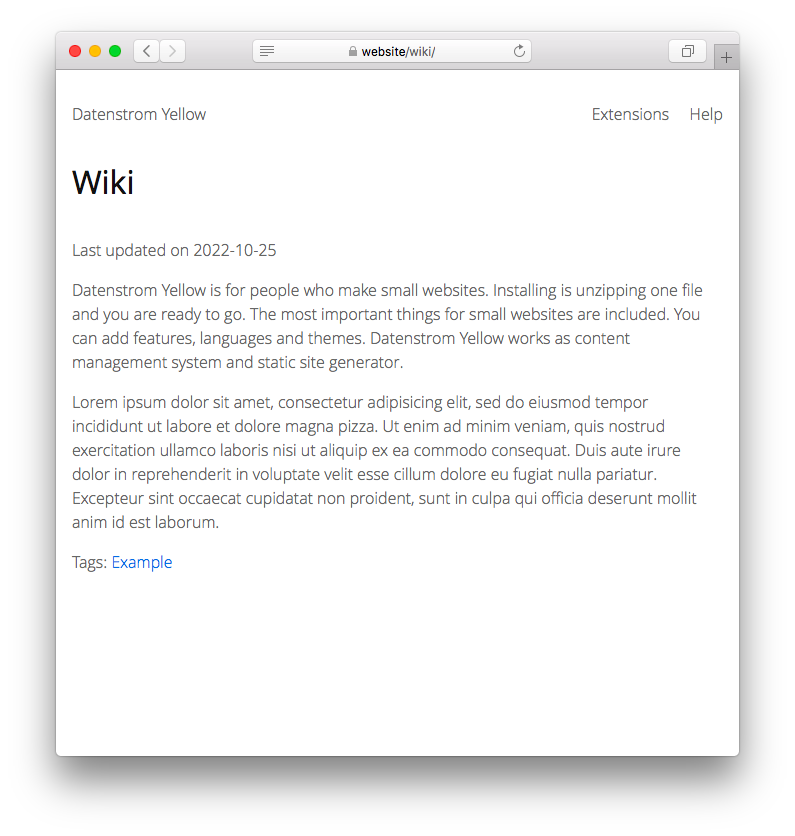
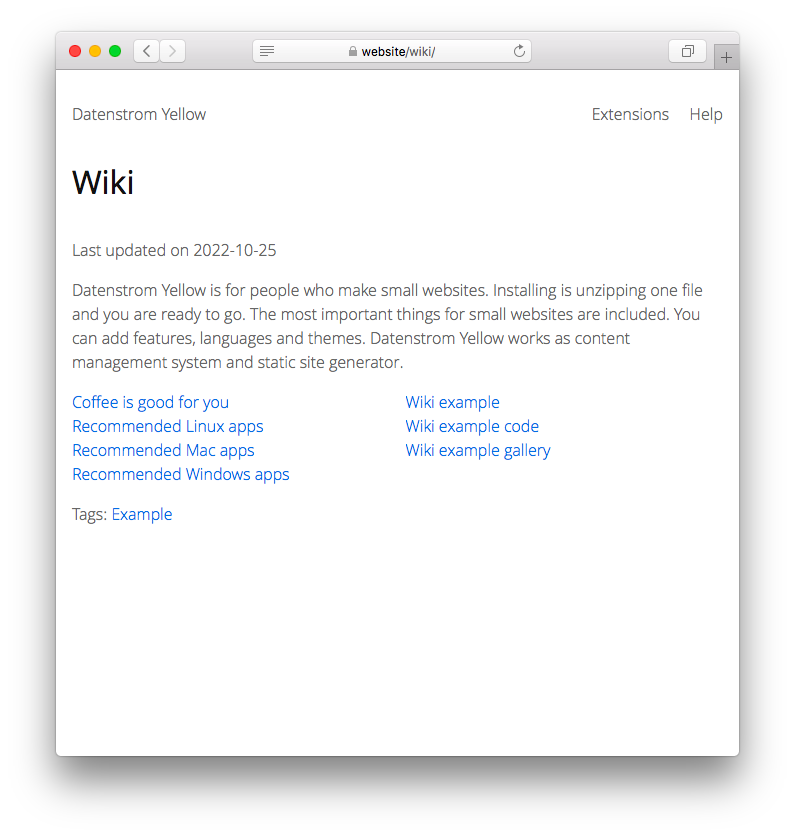
Updated wiki extension, documentation

Changed region(s): [[0.0906, 0.4665, 0.8755, 0.6842]]

diff --git a/wiki.php b/wiki.php
@@ -10,7 +10,7 @@ class YellowWiki {
         $this->yellow = $yellow;
         $this->yellow->system->setDefault("wikiStartLocation", "auto");
         $this->yellow->system->setDefault("wikiNewLocation", "@title");
-        $this->yellow->system->setDefault("wikiShortcutEntries", "5");
+        $this->yellow->system->setDefault("wikiShortcutEntries", "0");
         $this->yellow->system->setDefault("wikiPaginationLimit", "30");
     }
 

diff --git a/README-de.md b/README-de.md
@@ -16,7 +16,7 @@ Das Wiki ist auf deiner Webseite vorhanden als `http://website/wiki/`. Um eine n
 
 ## Wie man ein Wiki bearbeitet
 
-Falls du Wikiseiten im [Webbrowser](https://github.com/annaesvensson/yellow-edit/tree/main/README-de.md) bearbeiten möchtest, kannst du das auf deiner Webseite machen unter `http://website/edit/wiki/`. Falls du Wikiseiten auf deinem [Computer](https://github.com/annaesvensson/yellow-core/tree/main/README-de.md) bearbeiten möchtest, schau dir das `content/2-wiki`-Verzeichnis an. Hier sind ein paar Tipps. Präfixe und Suffixe werden aus der Adresse entfernt, damit es besser aussieht. Das Verzeichnis `content/2-wiki` ist vorhanden als `http://website/wiki/`. Die Datei `content/2-wiki/wiki-example.md` ist vorhanden als `http://website/wiki/wiki-example`.
+Falls du Wikiseiten im [Webbrowser](https://github.com/annaesvensson/yellow-edit/tree/main/README-de.md) bearbeiten möchtest, kannst du das auf deiner Webseite machen unter `http://website/edit/wiki/`. Falls du Wikiseiten auf deinem [Computer](https://github.com/annaesvensson/yellow-core/tree/main/README-de.md) bearbeiten möchtest, schau dir das `content/2-wiki`-Verzeichnis an. Hier sind ein paar Tipps. Ganz oben auf einer Seite kannst du `Title` und andere [Seiteneinstellungen](https://github.com/annaesvensson/yellow-core/tree/main/README-de.md#einstellungen-seite) ändern. Darunter kannst du Text und Bilder ändern. [Weitere Informationen zu Textformatierung](https://datenstrom.se/de/yellow/help/how-to-change-the-content).
 
 ## Wie man Wikiinformationen anzeigt
 

diff --git a/README-sv.md b/README-sv.md
@@ -16,7 +16,7 @@ Wikin finns på din webbplats som `http://website/wiki/`. För att skapa en ny w
 
 ## Hur man redigerar en wiki
 
-Om du vill redigera wikisidor i en [webbläsare](https://github.com/annaesvensson/yellow-edit/tree/main/README-sv.md) kan du göra detta på din webbplats på `http://website/edit/wiki/`. Om du vill redigera wikisidor på din [dator](https://github.com/annaesvensson/yellow-core/tree/main/README-sv.md), ta en titt på `content/2-wiki` mappen. Här är några tips. Prefix och suffix tas bort från adressen, så att det ser bättre ut. Mappen `content/2-wiki` är tillgänglig på din webbplats som `http://website/wiki/`. Filen `content/2-wiki/wiki-example.md` är tillgänglig på din webbplats som `http://website/wiki/wiki-example`.
+Om du vill redigera wikisidor i en [webbläsare](https://github.com/annaesvensson/yellow-edit/tree/main/README-sv.md) kan du göra detta på din webbplats på `http://website/edit/wiki/`. Om du vill redigera wikisidor på din [dator](https://github.com/annaesvensson/yellow-core/tree/main/README-sv.md), ta en titt på `content/2-wiki` mappen. Här är några tips.  Högst upp på en sida kan du ändra `Title` och andra [sidinställningar](https://github.com/annaesvensson/yellow-core/tree/main/README-sv.md#inställningar-page). Nedan kan du ändra text och bilder. [Läs mer om textformatering](https://datenstrom.se/sv/yellow/help/how-to-change-the-content).
 
 ## Hur man visar wikiinformation
 

diff --git a/README.md b/README.md
@@ -16,7 +16,7 @@ The wiki is available on your website as `http://website/wiki/`. To create a new
 
 ## How to edit a wiki
 
-If you want to edit wiki pages in a [web browser](https://github.com/annaesvensson/yellow-edit), you can do this on your website at `http://website/edit/wiki/`. If you want to edit wiki pages on your [computer](https://github.com/annaesvensson/yellow-core), have a look inside your `content/2-wiki` folder. Here are some tips. Prefix and suffix are removed from the address, so that it looks better. The folder `content/2-wiki` is available on your website as `http://website/wiki/`. The file `content/2-wiki/wiki-example.md` is available on your website as `http://website/wiki/wiki-example`.
+If you want to edit wiki pages in a [web browser](https://github.com/annaesvensson/yellow-edit), you can do this on your website at `http://website/edit/wiki/`. If you want to edit wiki pages on your [computer](https://github.com/annaesvensson/yellow-core), have a look inside your `content/2-wiki` folder. Here are some tips. At the top of a page you can change `Title` and other [page settings](https://github.com/annaesvensson/yellow-core#settings-page). Below you can change text and images. [Learn more about text formatting](https://datenstrom.se/yellow/help/how-to-change-the-content).
 
 ## How to show wiki information
 

diff --git a/coffee-is-good-for-you.md b/coffee-is-good-for-you.md
@@ -1,0 +1,10 @@
+---
+Title: Coffee is good for you
+Layout: wiki
+Tag: Example, Coffee
+---
+Coffee is a beverage made from the roasted beans of the coffee plant.
+
+1. Start with fresh coffee. Coffee beans start losing quality immediately after roasting and grinding. The best coffee is made from beans ground right after roasting. 
+2. Brew a cup of coffee. Coffee is prepared with different methods and additional flavorings such as milk and sugar. There are Espresso, Filter coffee, French press, Italian Moka, Turkish coffee and many more. Find out what's your favorite.
+3. Enjoy.

diff --git a/page.md b/page.md
@@ -5,3 +5,5 @@ LayoutNew: wiki
 Tag: Example
 ---
 Datenstrom Yellow is for people who make small websites. Installing is unzipping one file and you are ready to go. The most important things for small websites are included. You can add features, languages and themes. Datenstrom Yellow works as content management system and static site generator.
+
+[wikipages]
